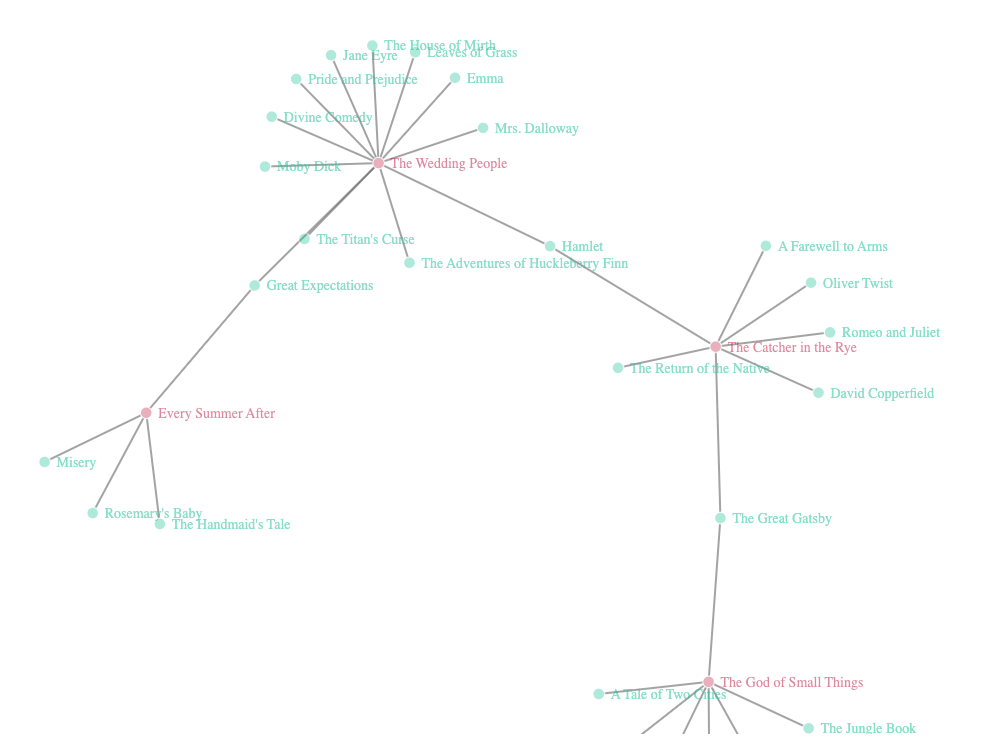
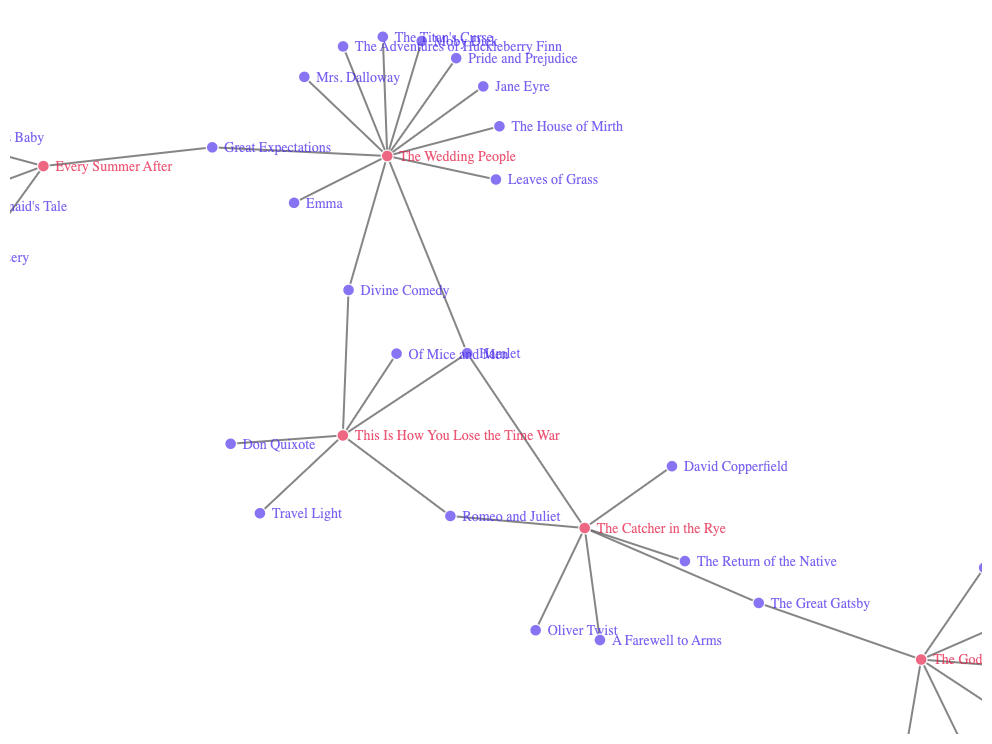
changing colours, fixing a bug

diff --git a/viz.html b/viz.html
@@ -1229,9 +1229,9 @@ this._y1=this._y2,this._y2=n}};var _w=function t(n){function e(t){return new qc(
 </head>
 <body style="background-color: white;">
 <div id="htmlwidget_container">
-  <div class="forceNetwork html-widget html-fill-item" id="htmlwidget-77ab76f04dc8b70ddd1b" style="width:960px;height:500px;"></div>
+  <div class="forceNetwork html-widget html-fill-item" id="htmlwidget-02f72a72e5d945528cbd" style="width:960px;height:500px;"></div>
 </div>
-<script type="application/json" data-for="htmlwidget-77ab76f04dc8b70ddd1b">{"x":{"links":{"source":[0,0,0,0,0,0,0,1,1,1,1,2,2,2,2,2,2,2,2,2,2,2,2,3,3,3,3,3,3,3],"target":[4,5,6,7,8,9,10,11,12,13,14,14,15,16,17,18,19,20,21,22,23,24,10,4,25,26,27,28,29,30],"colour":["#666","#666","#666","#666","#666","#666","#666","#666","#666","#666","#666","#666","#666","#666","#666","#666","#666","#666","#666","#666","#666","#666","#666","#666","#666","#666","#666","#666","#666","#666"],"linkNote":["\"I told him [D.B.] I liked ... The Great Gatsby... I was crazy about The Great Gatsby. Old Sport. That killed me.\"","\"[In a movie he watches] He's carrying a copy of Oliver Twist and so's she. I could've puked.\"","\"If you really want to hear about it, the first thing you'll probably want to know is where I was born, and what my lousy childhood was like, and how my parents were occupied and all before they had me, and all that David Copperfield crap, but I don't feel like going into it, if you want to know the truth.\"","\"What gets me about D.B., though, he hated the war so much, and yet he got me to read this book A Farewell to Arms last summer. He said it was terrific. That's what I don't understand.\"","\"Well I'm not too crazy about Romeo and Juliet... I mean I like them... They get pretty annoying sometimes. I mean I felt much sorrier when old Mercutio got killed than when Romeo and Juliet did.\"","\"Take old Eustacia Vye... She wasn't too sexy or anything, but even so you can't help wondering what a nun maybe thinks about when she reads about old Eustacia.\"","\"...I'll have to read that play... If an actor acts it out, I hardly listen. I keep worrying about whether he's going to do something phony every minute.\"","A gift from Sam to Percy","A gift from Sam to Percy","A gift from Sam to Percy","[Charlie:] \"I know you're bummed that Sam's gone, but you've been moping around like Miss Havisham.\"","\"But then Gary reaches out and makes a decision. He turns a book around just like she had. Great Expectations...She is surprised...Maybe Gary makes decisions like that all the time.\"","\"Wrote a dissertation tracking each time Jane Eyre went on a walk in the Bronte's novel\" <br> \"Because Cinderella never would have been the center of the novel if her mother had lived. (Neither would Jane Eyre, she thought)\" <br> \"For ten years, Phoebe has been finishing her book on Jane Eyre.\" <br> \"It is a lovely way to think about death. It's circular. And she always loved circular endings in literature, even if they were completely unrealistic. Probably why she was the only one in her Victorian literature class that liked the ending of Jane Eyre\" <br> \"Can't bear the thought of reading hundreds of pages just to watch Jane Eyre get married again\" <br> \"...she felt like she was just waiting for a critic to point out... Who cares how many times Jane Eyre goes walking? How can Stone claim the natural world is both a domestic space and a public space at the same time? And how does the freedom Eyre experiences on those waks with Rochester not contradict Stone's earlier claim that Jane is 'trapped in the unnatural world of a man's making'?\" <br> \"She rereads her wedding speech... it's terrible ... but as a literary analysis of the curious absense of weddings in Victorian marriage plots, it's not bad. She liked hte part about Jane Eyre getting married in under a sentence. And the paragraph about Jane's failed wedding being the only wedding that Bronte describes in actual detail... Why spend more time writing the failed wedding than the successful one?\" <br> \"... she downloads Jane Eyre on her phone. She tries to pinpoint the exact moment when the engagement became a trap; was it on the way to town after he proposed? Or did it start much earlier than that, long before Rochestor proposed?\"","No notes available.","\"And they had us write a paper on Dante's Inferno... but for years, I had nightmares about being stuck in his different versions of Hell... Like once I was running on a racetrack getting beaten with my own leg. Another time I was turned into the oak tree outside my fathers house and I bled every time my mother plucked one of my leaves.\"","\"She looked over her old lecture notes... She had always secretly thought those lines were bullshiit until that morning when she held up the gray blouse in front of the mirror...  Why bother?... Whitman was right. How lucky it would be to die, she thought - to just be the dirt. To just be a plant. To be made beautiful again by becoming part of the earth.\"... \"Her student Sam who wants her to know that she didn't come to class today because her grandmother had a bloody nose and her bloody nose got all over Leaves of Grass...\"","[Oliver, a 12 year old child:] \"I've read all the Percy Jackson books... My favorite by far is the Titan's Curse. Have you read it?\"","\"I wanted a big messy family... Like in Pride and Prejudice... It's one of those books that are about the big family, and what the big family is up to, and how the big family changes over time, and all the little ways the members of the big family irritate each other but also love each other.\"","\"BEvery night she watched her father... try to hook the same fish he'd fished for years and he never thought this was strange at all. But he looked at her reading Emma and said, \"Go outside, live a little.\"","[Gary:] \"... but I have a feeling my tiem might have been better spent actually finishing Moby-Dick\" [Phoebe:] \"It's ship porn! The total fantasy of being a man on a ship, having a wild adventure. B\"","A 'decorative' book on the hotel bookshelf that Phoebe turns around to expose its spine.","A 'decorative' book on the hotel bookshelf that Phoebe turns around to expose its spine.","[About a dead pet] \"Goodbye Harry. She hears it inside her head like the final lines of Ophelia in Hamlet: Goodbye Harry. Goodbye daughter. Goodbye mother. Goodbye father. Goodbye husband. Goodbye, goodbye.\"","\"Chacko...quoted long passages from them for no apparent reason. Or at least none that anyone else could fathom...Chacko suddenly said 'Gatsby turned out all right at the end. It is what preyed on Gatsby, what foul dust floated in the wake of his dreams that temporarily closed out my interest in the abortive sorrows and short-winded elations of men.\"","\"Kari Saipu's house... Ayemenem his private Heart of Darkness.\"","\"At night Ammu read to them from Kipling's Jungle Book\"","\"Baby Kochamma, who had been put in charge of their formal education, had read them an abridged version of The Tempest by Charles and Mary Lamb. 'Where the bee sucks, there such I,' Estha and Rahel would go about saying 'In a cowlip's bell I lie.\"","\"Rahel wasn't sure what she suffered from, but occasionally she practiced sad faces... 'It is a far, far better thing that I do, than I have ever done,' she would say to herself sadly. That was Rahel being Sydney Carton being Charles Darnay, as he stood on the steps, waiting to be guillotined, in the Classics Illustrated comic's version of A Tale of Two Cities.\"","\"[from Estha's notebook] 'When Ulyesses came hoem his son cmae and said father I though you would not come back. many princes came and each wanted to marry Pen Lope. but Pen Lop said that the man who can stoot through the twleve rings can mary me. and everyone failed. and ulyesses came to the palace dressed like a beggar and asked if he could try. the men all laughed at him and said if we cant do it you cant. ulyesses son spopped them and said let himtry and he took the bow and shot through the twelve rings.'\"","As the hot magenta jam went roung, Estha became a Stirring Wizard with a spoiled puff and uneven teeth, and the Witches of Macbeth. Fire burn, banana bubble.\""]},"nodes":{"name":["The Catcher in the Rye","Every Summer After","The Wedding People","The God of Small Things","The Great Gatsby","Oliver Twist","David Copperfield","A Farewell to Arms","Romeo and Juliet","The Return of the Native","Hamlet","Rosemary's Baby","Misery","The Handmaid's Tale","Great Expectations","Jane Eyre","Mrs. Dalloway","Divine Comedy","Leaves of Grass","The Titan's Curse","Pride and Prejudice","Emma","Moby Dick","The House of Mirth","The Adventures of Huckleberry Finn","Heart of Darkness","The Jungle Book","The Tempest","A Tale of Two Cities","Ulysses","Macbeth"],"group":["Source","Source","Source","Source","Reference","Reference","Reference","Reference","Reference","Reference","Reference","Reference","Reference","Reference","Reference","Reference","Reference","Reference","Reference","Reference","Reference","Reference","Reference","Reference","Reference","Reference","Reference","Reference","Reference","Reference","Reference"],"popupNote":["J.D. Salinger (1951)","Carley Fortune (2022)","Alison Espach (2024)","Arundhati Roy (1997)","F. Scott Fitzgerald (1925)","Charles Dickens (1838)","Charles Dickens (1850)","Ernest Hemingway (1929)","William Shakespeare (1597)","Thomas Hardy (1878)","William Shakespeare (1623)","Ira Levin (1967)","Stephen King (1987)","Margaret Atwood (1985)","Charles Dickens (1861)","Charlotte Brontë (1847)","Virginia Woolf (1925)","Dante Alighieri (1321)","Walt Whitman (1855)","Rick Riordan (2007)","Jane Austen (1831)","Jane Austen (1815)","Herman Melville (1851)","Edith Wharton (1905)","Mark Twain (1884)","Joseph Conrad (1899)","Rudyard Kipling (1894)","William Shakespeare (1610)","Charles Dickens (1859)","James Joyce (1922)","William Shakespeare (1606)"]},"options":{"NodeID":"name","Group":"group","colourScale":"d3.scaleOrdinal().domain([\"Source\", \"Reference\"]).range([\"#C22148\", \"#21C29A\"]);","fontSize":14,"fontFamily":"serif","clickTextSize":35,"linkDistance":100,"linkWidth":"function(d) { return 2; }","charge":-200,"opacity":0.6,"zoom":true,"legend":false,"arrows":false,"nodesize":false,"radiusCalculation":" Math.sqrt(d.nodesize)+6","bounded":false,"opacityNoHover":0.9,"clickAction":null}},"evals":[],"jsHooks":{"render":[{"code":"\n  function(el, x) {\n    var tooltip = d3.select('body').append('div')\n      .attr('class', 'network-tooltip')\n      .style('position', 'absolute')\n      .style('visibility', 'hidden')\n      .style('background', 'rgba(255, 255, 255, 0.95)')\n      .style('color', '#333')\n      .style('border', '1px solid #e0e0e0')\n      .style('padding', '12px 16px')\n      .style('border-radius', '12px')\n      .style('font-family', 'sans-serif')\n      .style('font-size', '13px')\n      .style('line-height', '1.5')\n      .style('box-shadow', '0 10px 25px rgba(0,0,0,0.1)')\n      .style('pointer-events', 'none')\n      .style('z-index', '1000');\n\n    var isLocked = false;\n\n    function hideTooltip() {\n      isLocked = false;\n      tooltip.style('visibility', 'hidden');\n      d3.selectAll('.link').style('stroke-opacity', '0.6')\n    }\n\n    d3.select(el).on('click', function() {\n      hideTooltip();\n    });\n\n    d3.selectAll('.node')\n      .style('cursor', 'pointer')\n      .on('mouseover', function(d) {\n        tooltip.style('visibility', 'visible')\n          .html('<em>' + d.popupNote + '<\/em>');\n      })\n      .on('mousemove', function() {\n        tooltip.style('top', (d3.event.pageY + 10) + 'px')\n               .style('left', (d3.event.pageX + 10) + 'px');\n      })\n      .on('mouseout', function() {\n        if (!isLocked) hideTooltip();\n      })\n      .on('click', function(d) {\n        d3.event.stopPropagation();\n        isLocked = true;\n        tooltip.style('visibility', 'visible')\n          .html('<em>' + d.popupNote + '<\/em>');\n      });\n\n    d3.selectAll('.link')\n      .style('cursor', 'pointer')\n      .on('mouseover', function(d) {\n        if(!isLocked) {\n          d3.select(this).style('stroke-opacity', '1');\n          var source_title = d.source.name;\n          var target_title = d.target.name;\n          tooltip.style('visibility', 'visible')\n                 .html('<strong>' + source_title + ' ➜ ' + target_title + '<\/strong><br>' + d.linkNote);\n        }\n     \n      })\n      .on('mousemove', function(){\n        if (!isLocked) {\n        tooltip.style('top', (d3.event.pageY + 10) + 'px')\n               .style('left', (d3.event.pageX + 10) + 'px');\n        }\n      })\n      .on('mouseout', function(){\n        if (!isLocked) {\n          d3.select(this).style('stroke-opacity', '0.6');\n          hideTooltip();\n        }\n      })\n      .on('click', function(d) {\n        d3.event.stopPropagation();\n        isLocked = true;\n        var source_title = d.source.name;\n        var target_title = d.target.name;\n\n        d3.selectAll('.link').style('stroke-opacity', '0.2');\n        d3.select(this).style('stroke-opacity', '1');\n        tooltip.style('visibility', 'visible')\n               .html('<strong>' + source_title + ' ➜ ' + target_title + '<\/strong><br>' + d.linkNote);\n      });\n  }\n","data":null}]}}</script>
-<script type="application/htmlwidget-sizing" data-for="htmlwidget-77ab76f04dc8b70ddd1b">{"viewer":{"width":450,"height":350,"padding":10,"fill":true},"browser":{"width":960,"height":500,"padding":10,"fill":true}}</script>
+<script type="application/json" data-for="htmlwidget-02f72a72e5d945528cbd">{"x":{"links":{"source":[0,0,0,0,0,0,0,1,1,1,1,2,2,2,2,2,2,2,2,2,2,2,2,3,3,3,3,3,3,3,4,4,4,4,4,4],"target":[5,6,7,8,9,10,11,12,13,14,15,15,16,17,18,19,20,21,22,23,24,25,11,5,26,27,28,29,30,31,18,32,33,34,9,11],"colour":["#666","#666","#666","#666","#666","#666","#666","#666","#666","#666","#666","#666","#666","#666","#666","#666","#666","#666","#666","#666","#666","#666","#666","#666","#666","#666","#666","#666","#666","#666","#666","#666","#666","#666","#666","#666"],"linkNote":["\"I told him [D.B.] I liked ... The Great Gatsby... I was crazy about The Great Gatsby. Old Sport. That killed me.\"","\"[In a movie he watches] He's carrying a copy of Oliver Twist and so's she. I could've puked.\"","\"If you really want to hear about it, the first thing you'll probably want to know is where I was born, and what my lousy childhood was like, and how my parents were occupied and all before they had me, and all that David Copperfield crap, but I don't feel like going into it, if you want to know the truth.\"","\"What gets me about D.B., though, he hated the war so much, and yet he got me to read this book A Farewell to Arms last summer. He said it was terrific. That's what I don't understand.\"","\"Well I'm not too crazy about Romeo and Juliet... I mean I like them... They get pretty annoying sometimes. I mean I felt much sorrier when old Mercutio got killed than when Romeo and Juliet did.\"","\"Take old Eustacia Vye... She wasn't too sexy or anything, but even so you can't help wondering what a nun maybe thinks about when she reads about old Eustacia.\"","\"...I'll have to read that play... If an actor acts it out, I hardly listen. I keep worrying about whether he's going to do something phony every minute.\"","A gift from Sam to Percy","A gift from Sam to Percy","A gift from Sam to Percy","[Charlie:] \"I know you're bummed that Sam's gone, but you've been moping around like Miss Havisham.\"","\"But then Gary reaches out and makes a decision. He turns a book around just like she had. Great Expectations...She is surprised...Maybe Gary makes decisions like that all the time.\"","\"Wrote a dissertation tracking each time Jane Eyre went on a walk in the Bronte's novel\" <br> \"Because Cinderella never would have been the center of the novel if her mother had lived. (Neither would Jane Eyre, she thought)\" <br> \"For ten years, Phoebe has been finishing her book on Jane Eyre.\" <br> \"It is a lovely way to think about death. It's circular. And she always loved circular endings in literature, even if they were completely unrealistic. Probably why she was the only one in her Victorian literature class that liked the ending of Jane Eyre\" <br> \"Can't bear the thought of reading hundreds of pages just to watch Jane Eyre get married again\" <br> \"...she felt like she was just waiting for a critic to point out... Who cares how many times Jane Eyre goes walking? How can Stone claim the natural world is both a domestic space and a public space at the same time? And how does the freedom Eyre experiences on those waks with Rochester not contradict Stone's earlier claim that Jane is 'trapped in the unnatural world of a man's making'?\" <br> \"She rereads her wedding speech... it's terrible ... but as a literary analysis of the curious absense of weddings in Victorian marriage plots, it's not bad. She liked hte part about Jane Eyre getting married in under a sentence. And the paragraph about Jane's failed wedding being the only wedding that Bronte describes in actual detail... Why spend more time writing the failed wedding than the successful one?\" <br> \"... she downloads Jane Eyre on her phone. She tries to pinpoint the exact moment when the engagement became a trap; was it on the way to town after he proposed? Or did it start much earlier than that, long before Rochestor proposed?\"","No notes available.","\"And they had us write a paper on Dante's Inferno... but for years, I had nightmares about being stuck in his different versions of Hell... Like once I was running on a racetrack getting beaten with my own leg. Another time I was turned into the oak tree outside my fathers house and I bled every time my mother plucked one of my leaves.\"","\"She looked over her old lecture notes... She had always secretly thought those lines were bullshiit until that morning when she held up the gray blouse in front of the mirror...  Why bother?... Whitman was right. How lucky it would be to die, she thought - to just be the dirt. To just be a plant. To be made beautiful again by becoming part of the earth.\"... \"Her student Sam who wants her to know that she didn't come to class today because her grandmother had a bloody nose and her bloody nose got all over Leaves of Grass...\"","[Oliver, a 12 year old child:] \"I've read all the Percy Jackson books... My favorite by far is the Titan's Curse. Have you read it?\"","\"I wanted a big messy family... Like in Pride and Prejudice... It's one of those books that are about the big family, and what the big family is up to, and how the big family changes over time, and all the little ways the members of the big family irritate each other but also love each other.\"","\"BEvery night she watched her father... try to hook the same fish he'd fished for years and he never thought this was strange at all. But he looked at her reading Emma and said, \"Go outside, live a little.\"","[Gary:] \"... but I have a feeling my tiem might have been better spent actually finishing Moby-Dick\" [Phoebe:] \"It's ship porn! The total fantasy of being a man on a ship, having a wild adventure. B\"","A 'decorative' book on the hotel bookshelf that Phoebe turns around to expose its spine.","A 'decorative' book on the hotel bookshelf that Phoebe turns around to expose its spine.","[About a dead pet] \"Goodbye Harry. She hears it inside her head like the final lines of Ophelia in Hamlet: Goodbye Harry. Goodbye daughter. Goodbye mother. Goodbye father. Goodbye husband. Goodbye, goodbye.\"","\"Chacko...quoted long passages from them for no apparent reason. Or at least none that anyone else could fathom...Chacko suddenly said 'Gatsby turned out all right at the end. It is what preyed on Gatsby, what foul dust floated in the wake of his dreams that temporarily closed out my interest in the abortive sorrows and short-winded elations of men.\"","\"Kari Saipu's house... Ayemenem his private Heart of Darkness.\"","\"At night Ammu read to them from Kipling's Jungle Book\"","\"Baby Kochamma, who had been put in charge of their formal education, had read them an abridged version of The Tempest by Charles and Mary Lamb. 'Where the bee sucks, there such I,' Estha and Rahel would go about saying 'In a cowlip's bell I lie.\"","\"Rahel wasn't sure what she suffered from, but occasionally she practiced sad faces... 'It is a far, far better thing that I do, than I have ever done,' she would say to herself sadly. That was Rahel being Sydney Carton being Charles Darnay, as he stood on the steps, waiting to be guillotined, in the Classics Illustrated comic's version of A Tale of Two Cities.\"","\"[from Estha's notebook] 'When Ulyesses came hoem his son cmae and said father I though you would not come back. many princes came and each wanted to marry Pen Lope. but Pen Lop said that the man who can stoot through the twleve rings can mary me. and everyone failed. and ulyesses came to the palace dressed like a beggar and asked if he could try. the men all laughed at him and said if we cant do it you cant. ulyesses son spopped them and said let himtry and he took the bow and shot through the twelve rings.'\"","As the hot magenta jam went roung, Estha became a Stirring Wizard with a spoiled puff and uneven teeth, and the Witches of Macbeth. Fire burn, banana bubble.\"","\"The sun set. The stars rose. (They are a rose, right? Or something? Dante said that.)\"","\"I'm so happy you read the Mitchison. Constantinople is difficult--but it helps sometimes to think of the book as moving thorugh phases of storytelling time. Myth and legend give way to history, which gives away again to myth, like curtains parting and meeting again on either side of a performance. Halla begins in Mitchison's Norse mythhs outside of booktime, and by the end has been absorbed--embedded, perhaps--into myths of those she travelled with. All good stories travel from the outside in.\"","\"[In comparison to Travel Light by Naomi Mitchison] I had a harder time with the Constantinople section--I may be missing some context there, though i can see what place it holds in the book, and the trickery reminds me of pieces of Don Quixote.\"","\"[Blue] is familiar with cautionary poets' exhortions across half a dozen strands, of mice, men, plants, canals, Panama--but she plans, now.\"","\"If Blue were a scholar--and she has played one enough times to know she would have loved to be--seh would catalogue, across all strands, a comprehensive study of the worlds in which Romeo and Juliet is a tragedy, and in which a comedy. It delights her, whenvever visiting a new strand, to take in a performance not knowing how it will end.\"","\"I was disappointed at first, you know--the obviousness of the double-bluff. Methought you did protest too much. But it worked after all--I bit your poisoned apple.\""]},"nodes":{"name":["The Catcher in the Rye","Every Summer After","The Wedding People","The God of Small Things","This Is How You Lose the Time War","The Great Gatsby","Oliver Twist","David Copperfield","A Farewell to Arms","Romeo and Juliet","The Return of the Native","Hamlet","Rosemary's Baby","Misery","The Handmaid's Tale","Great Expectations","Jane Eyre","Mrs. Dalloway","Divine Comedy","Leaves of Grass","The Titan's Curse","Pride and Prejudice","Emma","Moby Dick","The House of Mirth","The Adventures of Huckleberry Finn","Heart of Darkness","The Jungle Book","The Tempest","A Tale of Two Cities","Ulysses","Macbeth","Travel Light","Don Quixote","Of Mice and Men"],"group":["Source","Source","Source","Source","Source","Reference","Reference","Reference","Reference","Reference","Reference","Reference","Reference","Reference","Reference","Reference","Reference","Reference","Reference","Reference","Reference","Reference","Reference","Reference","Reference","Reference","Reference","Reference","Reference","Reference","Reference","Reference","Reference","Reference","Reference"],"popupNote":["J.D. Salinger (1951)","Carley Fortune (2022)","Alison Espach (2024)","Arundhati Roy (1997)","Amal El-Mohtar, Max Gladstone (2019)","F. Scott Fitzgerald (1925)","Charles Dickens (1838)","Charles Dickens (1850)","Ernest Hemingway (1929)","William Shakespeare (1597)","Thomas Hardy (1878)","William Shakespeare (1623)","Ira Levin (1967)","Stephen King (1987)","Margaret Atwood (1985)","Charles Dickens (1861)","Charlotte Brontë (1847)","Virginia Woolf (1925)","Dante Alighieri (1321)","Walt Whitman (1855)","Rick Riordan (2007)","Jane Austen (1831)","Jane Austen (1815)","Herman Melville (1851)","Edith Wharton (1905)","Mark Twain (1884)","Joseph Conrad (1899)","Rudyard Kipling (1894)","William Shakespeare (1610)","Charles Dickens (1859)","James Joyce (1922)","William Shakespeare (1606)","Naomi Mitchison (1952)","Miguel de Cervantes (1605)","John Steinbeck (1937)"]},"options":{"NodeID":"name","Group":"group","colourScale":"d3.scaleOrdinal().domain([\"Source\", \"Reference\"]).range([\"#e3123c\",\"#4326eb\"]);","fontSize":14,"fontFamily":"serif","clickTextSize":35,"linkDistance":100,"linkWidth":"function(d) { return 2; }","charge":-200,"opacity":0.8,"zoom":true,"legend":false,"arrows":false,"nodesize":false,"radiusCalculation":" Math.sqrt(d.nodesize)+6","bounded":false,"opacityNoHover":0.9,"clickAction":null}},"evals":[],"jsHooks":{"render":[{"code":"\n  function(el, x) {\n    var tooltip = d3.select('body').append('div')\n      .attr('class', 'network-tooltip')\n      .style('position', 'absolute')\n      .style('visibility', 'hidden')\n      .style('background', 'rgba(255, 255, 255, 0.95)')\n      .style('color', '#333')\n      .style('border', '1px solid #e0e0e0')\n      .style('padding', '12px 16px')\n      .style('border-radius', '12px')\n      .style('font-family', 'sans-serif')\n      .style('font-size', '13px')\n      .style('line-height', '1.5')\n      .style('box-shadow', '0 10px 25px rgba(0,0,0,0.1)')\n      .style('pointer-events', 'none')\n      .style('z-index', '1000');\n\n    var isLocked = false;\n\n    function hideTooltip() {\n      isLocked = false;\n      tooltip.style('visibility', 'hidden');\n      d3.selectAll('.link').style('stroke-opacity', '0.6')\n    }\n\n    d3.select(el).on('click', function() {\n      hideTooltip();\n    });\n\n    d3.selectAll('.node')\n      .style('cursor', 'pointer')\n      .on('mouseover', function(d) {\n        tooltip.style('visibility', 'visible')\n          .html('<em>' + d.popupNote + '<\/em>');\n      })\n      .on('mousemove', function() {\n        tooltip.style('top', (d3.event.pageY + 10) + 'px')\n               .style('left', (d3.event.pageX + 10) + 'px');\n      })\n      .on('mouseout', function() {\n        if (!isLocked) hideTooltip();\n      })\n      .on('click', function(d) {\n        d3.event.stopPropagation();\n        isLocked = true;\n        tooltip.style('visibility', 'visible')\n          .html('<em>' + d.popupNote + '<\/em>');\n      });\n\n    d3.selectAll('.link')\n      .style('cursor', 'pointer')\n      .on('mouseover', function(d) {\n        if(!isLocked) {\n          d3.select(this).style('stroke-opacity', '1');\n          var source_title = d.source.name;\n          var target_title = d.target.name;\n          tooltip.style('visibility', 'visible')\n                 .html('<strong>' + source_title + ' ➜ ' + target_title + '<\/strong><br>' + d.linkNote);\n        }\n     \n      })\n      .on('mousemove', function(){\n        if (!isLocked) {\n        tooltip.style('top', (d3.event.pageY + 10) + 'px')\n               .style('left', (d3.event.pageX + 10) + 'px');\n        }\n      })\n      .on('mouseout', function(){\n        if (!isLocked) {\n          d3.select(this).style('stroke-opacity', '0.6');\n          hideTooltip();\n        }\n      })\n      .on('click', function(d) {\n        d3.event.stopPropagation();\n        isLocked = true;\n        var source_title = d.source.name;\n        var target_title = d.target.name;\n\n        d3.selectAll('.link').style('stroke-opacity', '0.2');\n        d3.select(this).style('stroke-opacity', '1');\n        tooltip.style('visibility', 'visible')\n               .html('<strong>' + source_title + ' ➜ ' + target_title + '<\/strong><br>' + d.linkNote);\n      });\n  }\n","data":null}]}}</script>
+<script type="application/htmlwidget-sizing" data-for="htmlwidget-02f72a72e5d945528cbd">{"viewer":{"width":450,"height":350,"padding":10,"fill":true},"browser":{"width":960,"height":500,"padding":10,"fill":true}}</script>
 </body>
 </html>

diff --git a/update_network.py b/update_network.py
@@ -1,13 +1,3 @@
-# issues: google books query returns recent print publications? instead of the original work
-# add a column for format for both source and reference? (to include non-book media?)
-# add a logical column for the reference read or not read
-# add an option to make an .env file if there is no API key found (first use)
-# add requirements.txt
-# comment on code
-# add ability to hover over the points to see info, and makybe click to see quotes/notes?
-# add a way to get the next set of results
-#
-
 import pandas as pd
 import requests
 import os
@@ -75,12 +65,20 @@ def get_book_api(query):
                     selected = results[int(choice) -1]
                     print(f"You selected: {selected['title']} by {selected['author']} ({selected['year']})")
 
-                    if input("Do you want to edit these details? (y/n): ").lower() == "y":
-                        t = input(f"Title [{selected['title']}]: ") or selected['title']
-                        a = input(f"Author [{selected['author']}]: ") or selected['author']
-                        y = input(f"Year [{selected['year']}]: ") or selected['year']
+                    while True:
+                        edit_ask = input("Do you want to edit these details? (y/n)").strip().lower()
+                        
+                        if edit_ask == "y":
+                            t = input(f"Title [{selected['title']}]: ") or selected['title']
+                            a = input(f"Author [{selected['author']}]: ") or selected['author']
+                            y = input(f"Year [{selected['year']}]: ") or selected['year']
 
-                        return t, a, y
+                            return t, a, y
+                        elif edit_ask == "n":
+                            return selected['title'], selected['author'], selected['year']
+                        
+                        else:
+                            print("Invalid input. Please enter 'y' or 'n'.")
                     
                 elif choice == "m" and has_more:
                     start +=5

diff --git a/README.md b/README.md
@@ -40,4 +40,4 @@ pip install -r requirements.txt
 
 [**Open the interactive example**](https://nehapatel-git.github.io/novels_referencing_novels/viz.html)
 
-Some features: zoom, drag nodes, hover over nodes to see citation details, hover over links to see notes on the reference.
+Features: zoom, drag nodes, hover over nodes to see citation details, hover over links to see notes on the reference.
